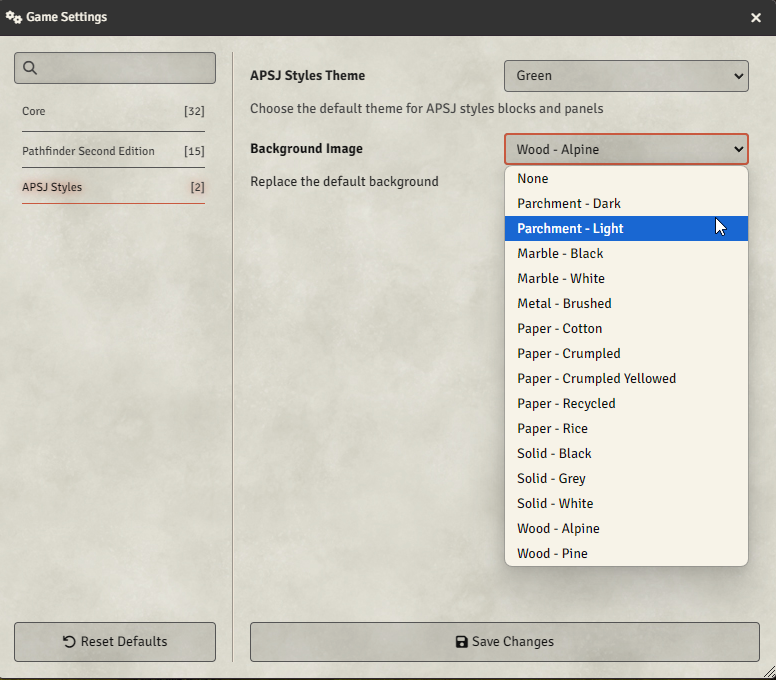
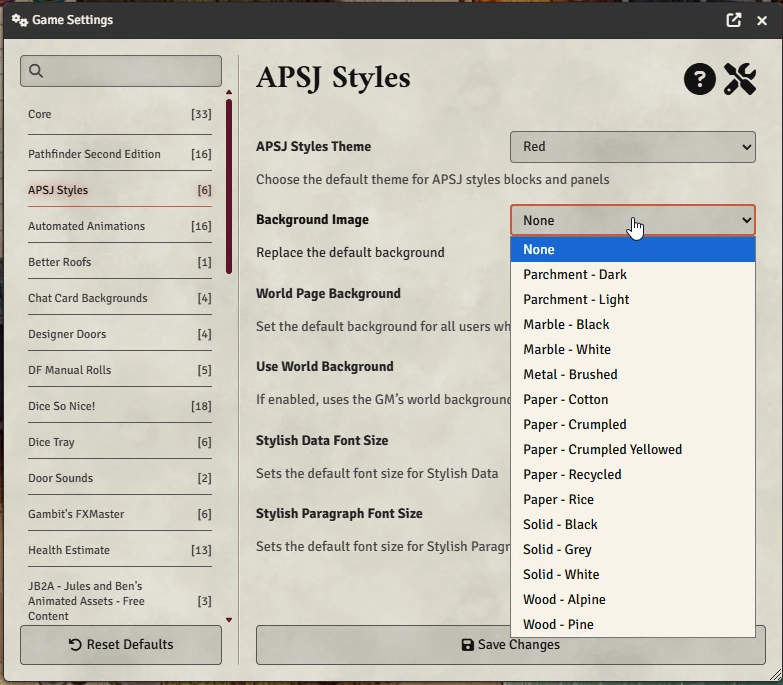
Add user and DM background modes.

diff --git a/scripts/apsjournal.js b/scripts/apsjournal.js
@@ -6,9 +6,10 @@ export let format = (key, data = {}) => {
 };
 export let log = (...args) => console.log("apsj-styles | ", ...args);
 
+export const modulename = "apsj-styles";
+
 export const registerSettings = function () {
   // Register any custom module settings here
-  const modulename = "apsj-styles";
 
   const fontSizeChoices = {
     "8pt": i18n('APSJournal.font-size.very-small.name'),
@@ -31,22 +32,22 @@ export const registerSettings = function () {
   };
 
   const backgroundImages = {
-		'none': "None",
-		'darkParchment': "Parchment - Dark",
-		'parchment': "Parchment - Light",
-		"marbleBlack": "Marble - Black",
-		"marbleWhite": "Marble - White",
-		"metalBrushed": "Metal - Brushed",
-		"paperCotton": "Paper - Cotton",
-		"paperCrumpled": "Paper - Crumpled",
-		"paperCrumpledYellowed": "Paper - Crumpled Yellowed",
-		"paperRecycled": "Paper - Recycled",
-		"paperRice": "Paper - Rice",
-		"solidBlack": "Solid - Black",
-		"solidGrey": "Solid - Grey",
-		"solidWhite": "Solid - White",
-		"woodAlpine": "Wood - Alpine",
-		"woodPine": "Wood - Pine"
+    'none': "None",
+    'darkParchment': "Parchment - Dark",
+    'parchment': "Parchment - Light",
+    "marbleBlack": "Marble - Black",
+    "marbleWhite": "Marble - White",
+    "metalBrushed": "Metal - Brushed",
+    "paperCotton": "Paper - Cotton",
+    "paperCrumpled": "Paper - Crumpled",
+    "paperCrumpledYellowed": "Paper - Crumpled Yellowed",
+    "paperRecycled": "Paper - Recycled",
+    "paperRice": "Paper - Rice",
+    "solidBlack": "Solid - Black",
+    "solidGrey": "Solid - Grey",
+    "solidWhite": "Solid - White",
+    "woodAlpine": "Wood - Alpine",
+    "woodPine": "Wood - Pine"
   };
 
   game.settings.register(modulename, 'apsj-theme', {
@@ -62,18 +63,39 @@ export const registerSettings = function () {
     },
   });
 
-	game.settings.register(modulename, 'background-image', {
-		name: i18n('APSJournal.background-image.name'),
-		hint: i18n('APSJournal.background-image.hint'),
-		scope: 'client',
-		config: true,
-		default: "none",
-		choices: backgroundImages,
-		type: String,
-		onChange: (value) => {
-      document.documentElement.setAttribute("background-image", value);
-		},
-	});
+  game.settings.register(modulename, 'background-image', {
+    name: i18n('APSJournal.background-image.name'),
+    hint: i18n('APSJournal.background-image.hint'),
+    scope: 'client',
+    config: true,
+    default: "none",
+    choices: backgroundImages,
+    type: String,
+    onChange: applyBackground, // updates all clients automatically
+  });
+
+  // --- WORLD SETTING (GM only)
+  game.settings.register(modulename, "world-background-image", {
+    name: "World Page Background",
+    hint: "Set the default background for all users who choose to use the world background.",
+    scope: 'world',
+    config: true,
+    type: String,
+    choices: backgroundImages,
+    default: "none",
+    onChange: applyBackground, // updates all clients automatically
+  });
+
+  // --- CLIENT SETTINGS (user-specific)
+  game.settings.register(modulename, "use-world-background", {
+    name: "Use World Background",
+    hint: "If enabled, uses the GM’s world background instead of your own choice.",
+    scope: "client",
+    config: true,
+    type: Boolean,
+    default: false,
+    onChange: applyBackground,
+  });
 
   game.settings.register("apsj-styles", "apsj-data-font-size", {
     name: i18n('APSJournal.text-data.font-size.name'),
@@ -299,7 +321,17 @@ function insertHTML(view, htmlString) {
   view.dispatch(transaction);
 }
 
+function applyBackground() {
+  const useWorld = game.settings.get(modulename, "use-world-background");
+  const bg = useWorld
+    ? game.settings.get(modulename, "world-background-image")
+    : game.settings.get(modulename, "background-image");
+
+  document.documentElement.setAttribute("background-image", bg);
+}
+
 Hooks.once("ready", async function () {
+    applyBackground();
     Hooks.callAll("apsjReady");
 });
 

diff --git a/README.md b/README.md
@@ -73,8 +73,13 @@ The new Text Styles can be found under the Stylish Text submenu in the Format me
 
 ### Settings
 
-#### Choosing the journal page background
+#### Choosing the user journal page background
 ![styles-settings](media/apsj-styles-settings.webp)
+
+#### Choosing the world or user background
+![styles-backgrounds](media/apsj-styles-backgrounds.webp)
+Users can choose to globally their own selected background for journal pages, or adhere to whatever journal background the GM has chosen for this world.  
+The GM has the option to set the world's journal page background.
 
 #### Choosing the default font sizes for Stylish Data and Stylish Paragraph
 

diff --git a/CHANGELOG.md b/CHANGELOG.md
@@ -1,3 +1,6 @@
+# Version 3.0.7
+Make page background a per-world setting.
+
 # Version 3.0.6
 Use proper PF2e GM text colour (#444444) for GM blocks instead of our own funky one
 
